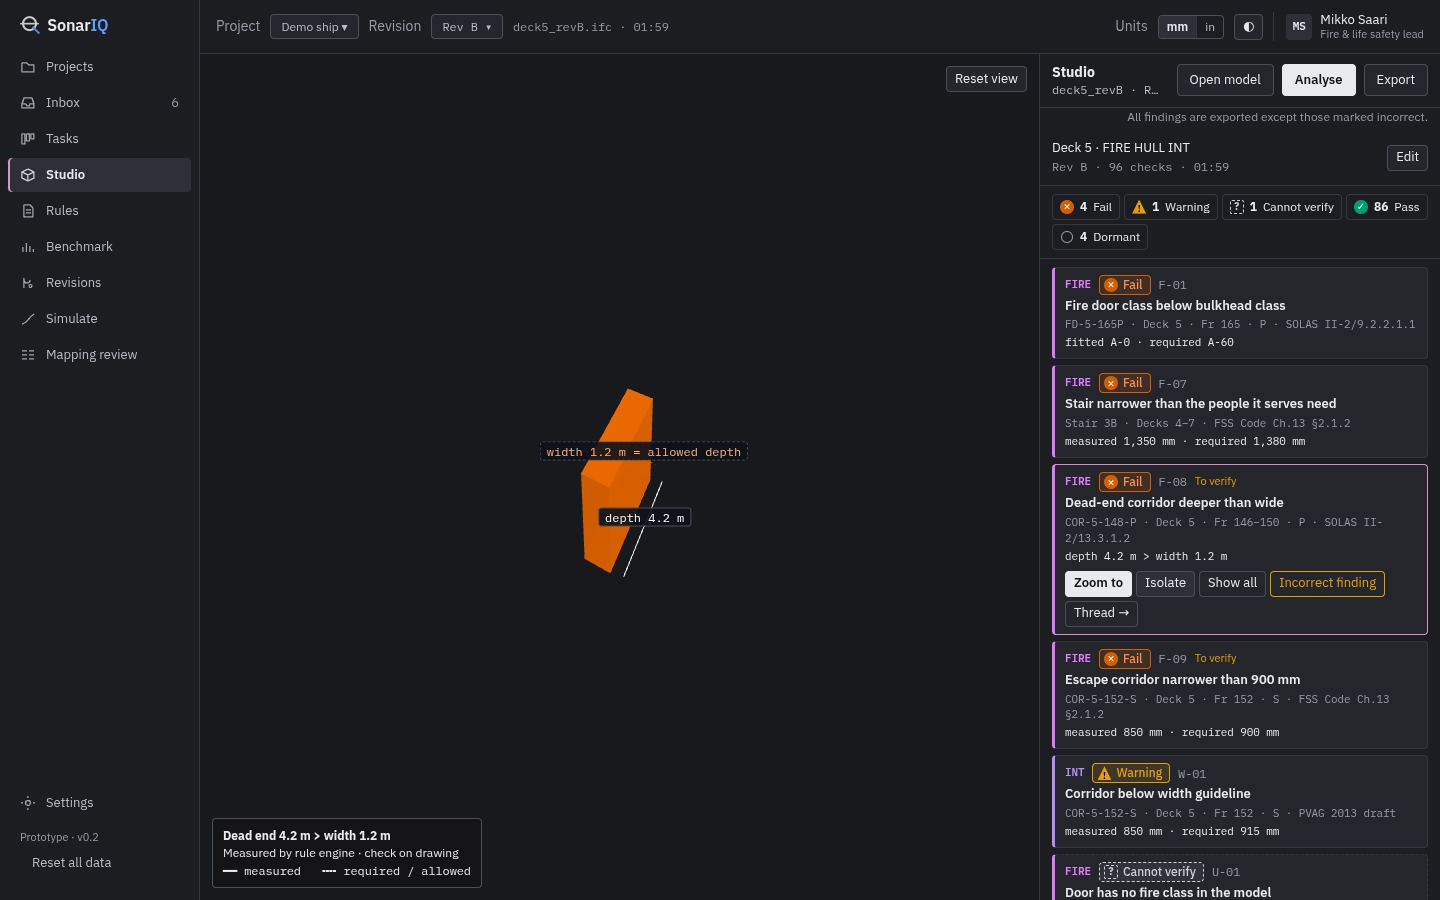
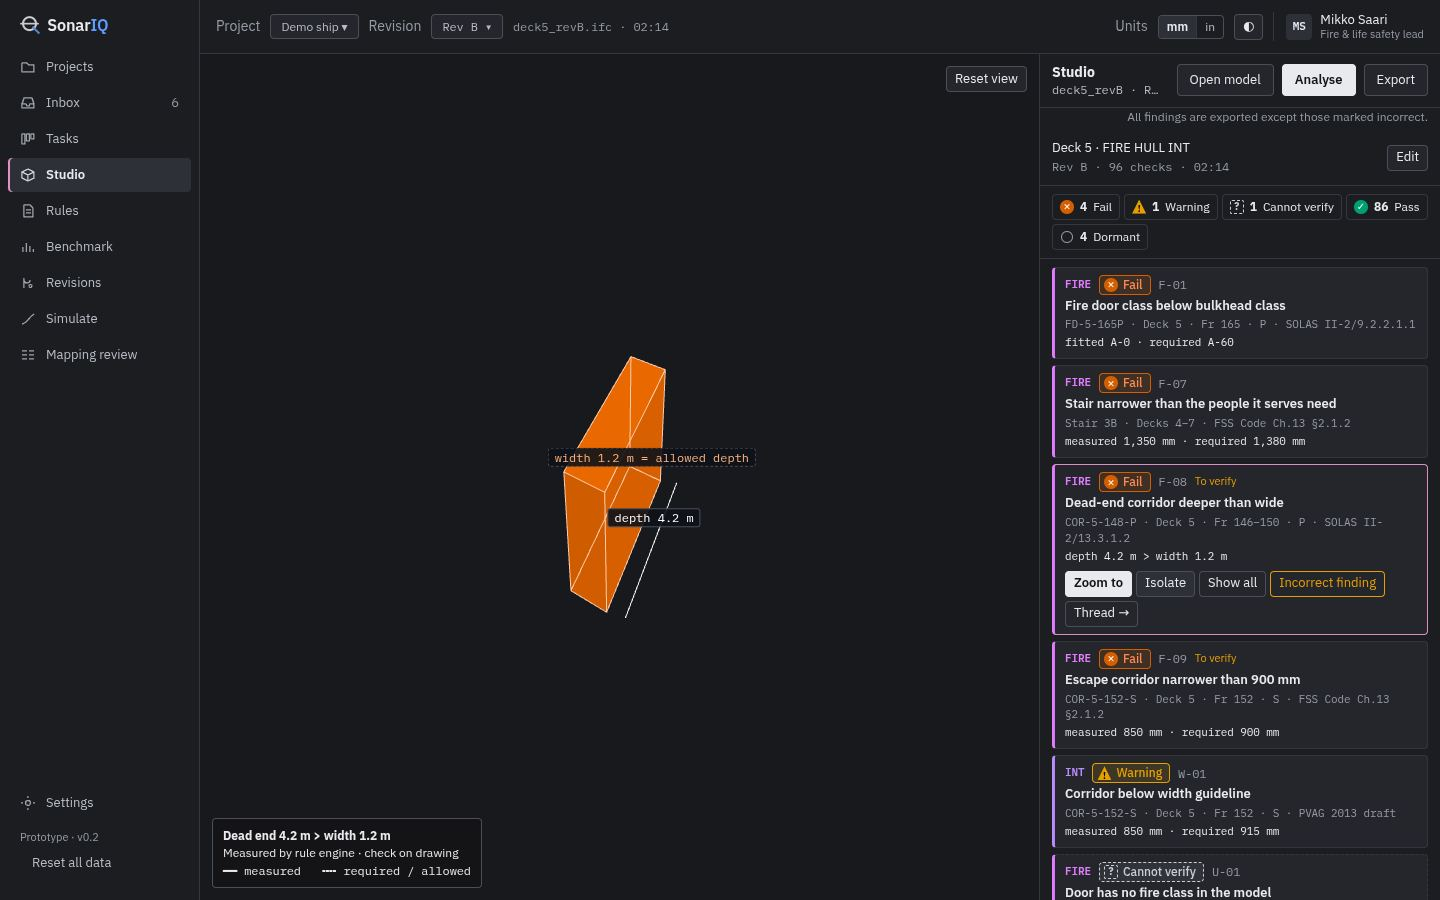
Studio 3D: x-ray as faint faces + crisp edges, focused element outlined on top (visible through walls), zoom keeps the isometric angle with context (min 7 m radius), measured/required labels never overlap; screenshots refreshed
Claude-Session: https://claude.ai/code/session_016AgFqMTsJjTs54rBC7n5M9

Changed region(s): [[0.375, 0.4044, 0.5312, 0.6844]]

diff --git a/portal/src/screens/Studio.tsx b/portal/src/screens/Studio.tsx
@@ -88,9 +88,37 @@ function Viewer3D({ url, bounds, findings, onReady, apiRef }: { url: string | nu
     const T = (x: number, y: number, z: number) => new THREE.Vector3(x + off.x, z + off.y, -y + off.z);
     const mats = () => { const out: THREE.Material[] = []; group?.items.forEach((f: any) => { const m = f.mesh.material; (Array.isArray(m) ? m : [m]).forEach((mm: THREE.Material) => out.push(mm)); }); return out; };
     // x-ray: translucent grey; while a finding is focused the rest fades further
-    const ghost = (on: boolean) => mats().forEach((m: any) => {
-      m.color?.set?.(0x9aa3ad); m.transparent = true; m.opacity = on ? 0.08 : 0.2; m.depthWrite = false; m.needsUpdate = true;
-    });
+    // x-ray: faint grey faces + crisp edges, so walls, doors and stairs read as a drawing instead of stacked glass.
+    // While a finding is focused the rest fades further; isolate hides it.
+    let edges: THREE.LineSegments[] = [];
+    const edgesOf = (mesh: any, color: number, opacity: number, depthTest = true) => {
+      const base = new THREE.EdgesGeometry(mesh.geometry, 25);
+      const src = base.attributes.position.array as Float32Array;
+      const n = mesh.isInstancedMesh ? mesh.count : 1;
+      const out = new Float32Array(src.length * n);
+      const m = new THREE.Matrix4(), v = new THREE.Vector3();
+      mesh.updateMatrixWorld(true);
+      for (let i = 0; i < n; i++) {
+        if (mesh.isInstancedMesh) mesh.getMatrixAt(i, m); else m.identity();
+        m.premultiply(mesh.matrixWorld);
+        for (let k = 0; k < src.length; k += 3) { v.set(src[k], src[k + 1], src[k + 2]).applyMatrix4(m); out[i * src.length + k] = v.x; out[i * src.length + k + 1] = v.y; out[i * src.length + k + 2] = v.z; }
+      }
+      base.dispose();
+      const g = new THREE.BufferGeometry(); g.setAttribute("position", new THREE.BufferAttribute(out, 3));
+      const ln = new THREE.LineSegments(g, new THREE.LineBasicMaterial({ color, transparent: true, opacity, depthTest }));
+      if (!depthTest) ln.renderOrder = 12;
+      return ln;
+    };
+    const buildEdges = () => {
+      let verts = 0;
+      group?.items.forEach((f: any) => { verts += (f.mesh.geometry.attributes.position?.count ?? 0) * (f.mesh.count ?? 1); });
+      if (verts > 3_000_000) return;   // very large models: faces only
+      group?.items.forEach((f: any) => { const e = edgesOf(f.mesh, 0x8d99a8, 0.5); world.scene.three.add(e); edges.push(e); });
+    };
+    const ghost = (on: boolean) => {
+      mats().forEach((m: any) => { m.color?.set?.(0x8b95a1); m.transparent = true; m.opacity = on ? 0.05 : 0.1; m.depthWrite = false; m.needsUpdate = true; });
+      edges.forEach((e) => { (e.material as THREE.LineBasicMaterial).opacity = on ? 0.22 : 0.5; e.visible = true; });
+    };
     const cloneIn = (guid: string | undefined, color: number, intensity: number, into: THREE.Object3D[], box?: THREE.Box3) => {
       const eid = guid ? group.globalToExpressIDs.get(guid) : undefined;
       if (eid === undefined) return false;
@@ -101,6 +129,8 @@ function Viewer3D({ url, bounds, findings, onReady, apiRef }: { url: string | nu
         const cl = frag.clone(fmap[fid]);
         cl.mesh.material = [new THREE.MeshLambertMaterial({ color, emissive: color, emissiveIntensity: intensity })];
         group.add(cl.mesh); into.push(cl.mesh);
+        // outline drawn on top (no depth test), so the element stays visible through walls in the x-ray
+        if (box) { const o = edgesOf(cl.mesh, color === STATUS_HEX.unk ? 0xffffff : 0xffd2b8, 0.95, false); world.scene.three.add(o); into.push(o); }
         if (box) { cl.mesh.updateMatrixWorld(true); box.union(new THREE.Box3().setFromObject(cl.mesh)); }
       }
       return true;
@@ -130,10 +160,13 @@ function Viewer3D({ url, bounds, findings, onReady, apiRef }: { url: string | nu
       const w = host.current.clientWidth, h = host.current.clientHeight;
       setLabels(labelPts.map(({ text, v, dashed }) => { const p = v.clone().project(cam); return { text, dashed, x: (p.x + 1) / 2 * w, y: (1 - p.y) / 2 * h, visible: p.z < 1 && Math.abs(p.x) < 1.2 && Math.abs(p.y) < 1.2 }; }));
     };
+    // zoom to a finding: keep the isometric angle (fitToBox would snap to a flat axis view), centre the element and
+    // leave room around it so the neighbouring rooms and corridors give context
     const fit = (b: THREE.Box3) => {
-      const bb = b.clone(); const size = bb.getSize(new THREE.Vector3()); bb.expandByVector(new THREE.Vector3(Math.max(5, size.x), 2, Math.max(5, size.z)));
-      // keep the current viewing angle (fitToBox would snap to the nearest axis and show a flat side view)
-      world.camera.controls.fitToSphere(bb.getBoundingSphere(new THREE.Sphere()), true);
+      const sph = b.getBoundingSphere(new THREE.Sphere());
+      sph.radius = Math.max(sph.radius * 2.2, 7);
+      world.camera.controls.rotateTo(ISO[0], ISO[1], true);
+      world.camera.controls.fitToSphere(sph, true);
     };
     const focus = (c: Check) => {
       clear();
@@ -175,7 +208,7 @@ function Viewer3D({ url, bounds, findings, onReady, apiRef }: { url: string | nu
     };
     apiRef.current = {
       focus,
-      isolate: (c: Check) => { focus(c); visibility(false); ghost(false); },
+      isolate: (c: Check) => { focus(c); visibility(false); edges.forEach((e) => { e.visible = false; }); },
       showAll: () => { clear(); home(true); },
       zoom: () => { if (focusBox) fit(focusBox); },
       resetView: () => { clear(); home(true); },
@@ -197,6 +230,7 @@ function Viewer3D({ url, bounds, findings, onReady, apiRef }: { url: string | nu
         world.scene.three.add(group);
         modelBox = new THREE.Box3().setFromObject(group);
         if (bounds) off = new THREE.Vector3(modelBox.min.x - bounds[0], modelBox.min.y - bounds[2], modelBox.min.z + bounds[4]);
+        buildEdges();
         ghost(false);
         await home(false);
         world.camera.controls.addEventListener("update", update);

diff --git a/portal/src/index.css b/portal/src/index.css
@@ -230,6 +230,9 @@ tr.is-incorrect td:has(.inc-why) { opacity: .85; }
 .studio-why { flex: 1; min-width: 0; height: 26px; font-size: 12px; }
 .studio-dim { position: absolute; transform: translate(-50%, -50%); background: rgba(14,18,24,.9); color: #fff; border: 1px solid #4a4e57; border-radius: 3px; padding: 1px 6px; font: 12px "IBM Plex Mono", monospace; white-space: nowrap; pointer-events: none; }
 .studio-dim.is-req { color: #ffb37f; border-style: dashed; }
+/* measured label sits above its line, required below, so the two never overlap at any zoom */
+.studio-dim:not(.is-req) { transform: translate(-50%, -125%); }
+.studio-dim.is-req { transform: translate(-50%, 25%); }
 .studio-legend { position: absolute; left: 12px; bottom: 12px; background: rgba(19,20,23,.92); border: 1px solid var(--line-2); border-radius: 4px; padding: 8px 10px; font-size: 12px; color: var(--fg-1); }
 @media (max-width: 900px) { .studio { grid-template-columns: 1fr; grid-template-rows: 45vh auto; height: auto; } }
 
